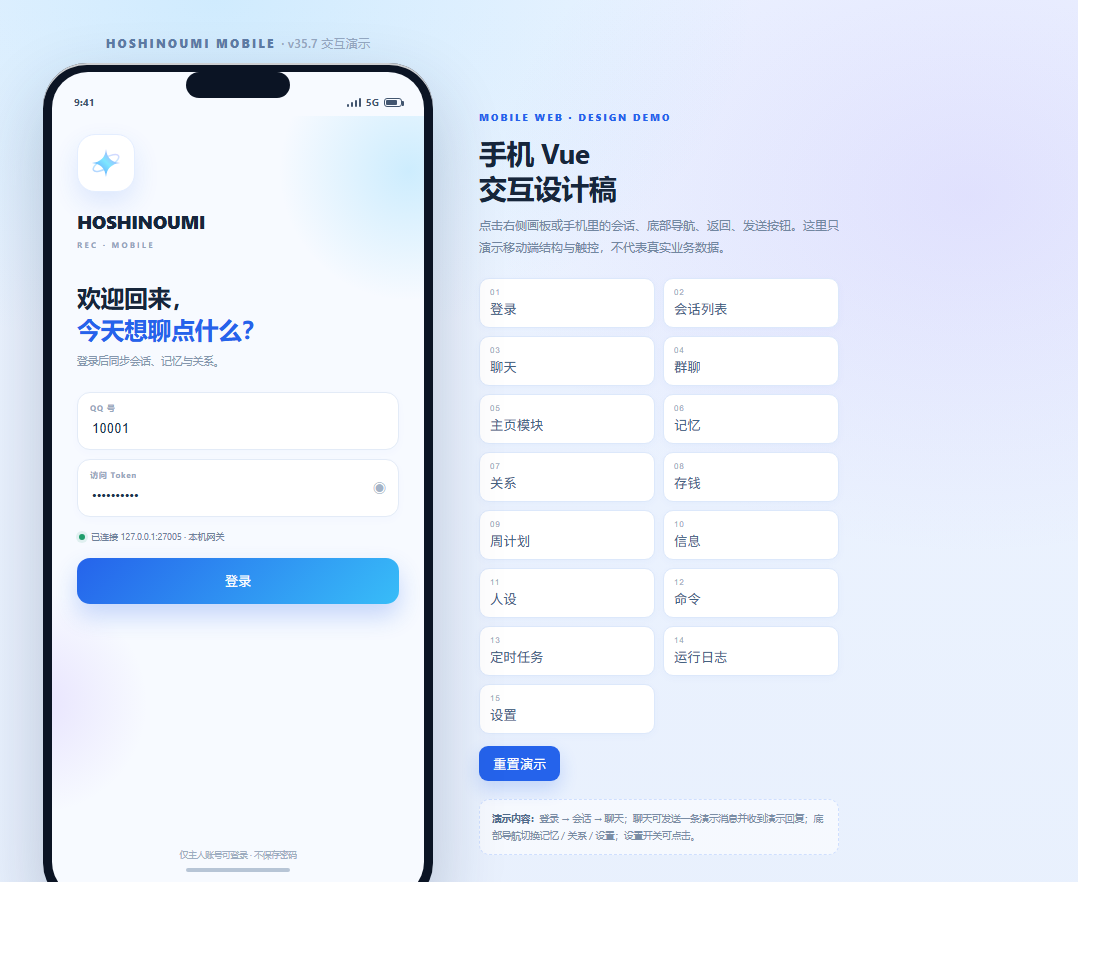
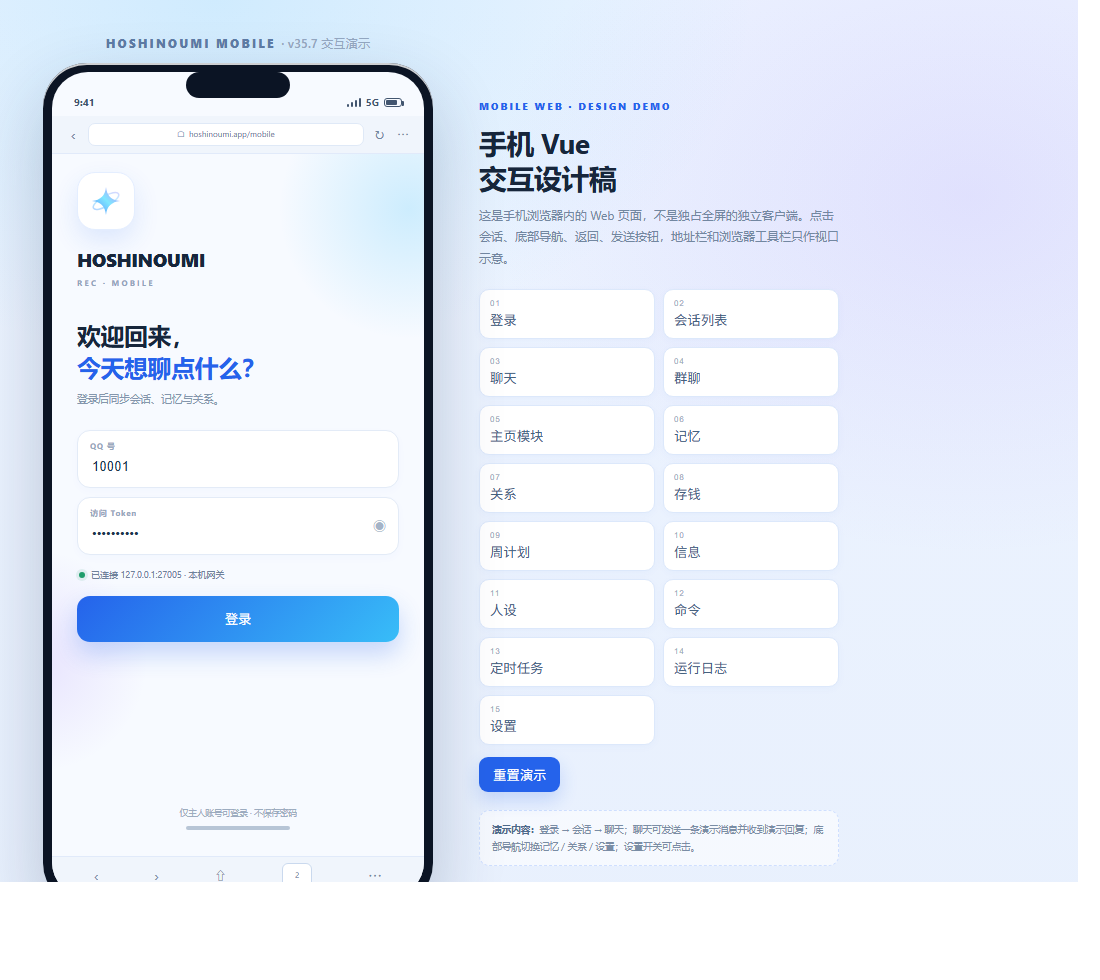
docs(v35.7): 手机演示改为浏览器视口，不占全屏

diff --git a/docs/design/v35/mobile/hoshinoumi-mobile-v35.7-demo.html b/docs/design/v35/mobile/hoshinoumi-mobile-v35.7-demo.html
@@ -27,7 +27,7 @@ body{margin:0;min-height:100vh;background:radial-gradient(900px 600px at 20% 0%,
 .demo-caption{font-size:9px;color:#9aabc0;margin-top:10px;letter-spacing:.02em}
 .screen-body.d-view{display:flex;flex-direction:column;height:100%;min-height:0}
 .d-view>.login{flex:1}
-.toast{position:absolute;left:50%;bottom:90px;transform:translateX(-50%) translateY(8px);background:rgba(15,30,52,.9);color:#fff;border-radius:9px;padding:8px 12px;font-size:9px;opacity:0;transition:.2s;pointer-events:none;z-index:20;white-space:nowrap}
+.toast{position:absolute;left:50%;bottom:108px;transform:translateX(-50%) translateY(8px);background:rgba(15,30,52,.9);color:#fff;border-radius:9px;padding:8px 12px;font-size:9px;opacity:0;transition:.2s;pointer-events:none;z-index:20;white-space:nowrap}
 .toast.on{opacity:1;transform:translateX(-50%) translateY(0)}
 .hide{display:none!important}
 @media(max-width:860px){.demo-page{grid-template-columns:1fr;justify-items:center}.demo-side{text-align:center}.demo-side p,.demo-note{margin-left:auto;margin-right:auto}.demo-screen-list{justify-content:center}.demo-stage{max-width:390px}}
@@ -73,7 +73,9 @@ body{margin:0;min-height:100vh;background:radial-gradient(900px 600px at 20% 0%,
     <div class="demo-title">HOSHINOUMI MOBILE <span>· v35.7 交互演示</span></div>
     <div class="phone"><div class="island"></div><div class="screen" id="app">
       <div class="statusbar"><span>9:41</span><div class="right"><span class="sig"><i></i><i></i><i></i><i></i></span><span>5G</span><div class="battery"></div></div></div>
+      <div class="browser-top"><span class="b-back" onclick="toast('浏览器返回演示')">‹</span><span class="b-url">hoshinoumi.app/mobile</span><span class="b-icon" onclick="toast('刷新演示')">↻</span><span class="b-icon" onclick="toast('浏览器菜单演示')">⋯</span></div>
       <div class="screen-body d-view" id="view"></div>
+      <div class="browser-bottom"><span onclick="toast('浏览器后退演示')">‹</span><span onclick="toast('浏览器前进演示')">›</span><span class="b-share" onclick="toast('分享页面演示')">⇧</span><span class="b-tab" onclick="toast('标签页演示')">2</span><span onclick="toast('浏览器菜单演示')">⋯</span></div>
       <div class="toast" id="toast"></div>
     </div></div>
     <div class="demo-caption">390 × 844 · 设计演示，非真实数据</div>
@@ -81,8 +83,8 @@ body{margin:0;min-height:100vh;background:radial-gradient(900px 600px at 20% 0%,
 
   <aside class="demo-side">
     <div class="kicker">MOBILE WEB · DESIGN DEMO</div>
-    <h1>手机 Vue<br>交互设计稿</h1>
-    <p>点击右侧画板或手机里的会话、底部导航、返回、发送按钮。这里只演示移动端结构与触控，不代表真实业务数据。</p>
+    <h1>手机浏览器<br>交互设计稿</h1>
+    <p>这是手机浏览器内的 Web 页面，不是独占全屏的独立客户端。点击会话、底部导航、返回、发送按钮，地址栏和浏览器工具栏只作视口示意。</p>
     <div class="demo-screen-list">
       <button onclick="go('login')"><span>01</span>登录</button>
       <button onclick="go('chats')"><span>02</span>会话列表</button>

diff --git a/docs/design/v35/mobile/mobile.css b/docs/design/v35/mobile/mobile.css
@@ -164,3 +164,13 @@ h1{font-size:30px;line-height:1.2;margin:0 0 9px;letter-spacing:-.02em}
 .version{text-align:center;color:#a5b3c4;font-size:8px;margin-top:14px}
 .note{max-width:1320px;margin:30px auto 0;padding:14px 18px;border:1px dashed #cfdfff;background:rgba(255,255,255,.55);border-radius:12px;color:#7188a3;font-size:10px;line-height:1.8}
 @media (max-width:1300px){body{min-width:0}.board{grid-template-columns:repeat(2,390px)}}
+
+/* browser viewport chrome */
+.browser-top{height:38px;flex:none;display:flex;align-items:center;gap:6px;padding:0 12px;background:#f0f5fc;border-bottom:1px solid #e1eafa}
+.browser-top .b-back{width:18px;text-align:center;color:#7086a1;font-size:15px;line-height:1}
+.browser-top .b-url{flex:1;height:23px;border-radius:7px;background:#fff;border:1px solid #dfe9f7;display:flex;align-items:center;justify-content:center;gap:4px;color:#6d829c;font-size:8px;letter-spacing:.01em}
+.browser-top .b-url:before{content:"⌂";font-size:8px;color:#8da3bc}
+.browser-top .b-icon{width:18px;text-align:center;color:#7086a1;font-size:12px;line-height:1}
+.browser-bottom{height:42px;flex:none;display:flex;align-items:center;justify-content:space-around;background:#f0f5fc;border-top:1px solid #e1eafa;color:#7086a1;font-size:14px;padding:0 14px 3px}
+.browser-bottom .b-tab{display:flex;align-items:center;justify-content:center;width:30px;height:26px;border:1px solid #cad9ee;border-radius:6px;font-size:8px;color:#6d829c;background:#fff}
+.browser-bottom .b-share{font-size:12px}

diff --git a/docs/design/v35/mobile/hoshinoumi-mobile-v35.7.html b/docs/design/v35/mobile/hoshinoumi-mobile-v35.7.html
@@ -193,5 +193,19 @@
 
   <div class="note"><b>设计边界</b>：本页只确认移动端布局、尺寸、安全区与交互层级；所有内容来自 Vue 页面，不在设计稿里另写业务。会话、记忆、关系均为设计示例，最终以 `/api/*` 返回为准；非主人不展示私密数据和金额。</div>
 </div>
+<script id="inject-browser-chrome">
+document.querySelectorAll('.phone .screen').forEach(screen => {
+  const status = screen.querySelector('.statusbar')
+  if (!status) return
+  const top = document.createElement('div')
+  top.className = 'browser-top'
+  top.innerHTML = '<span class="b-back">‹</span><span class="b-url">hoshinoumi.app/mobile</span><span class="b-icon">↻</span><span class="b-icon">⋯</span>'
+  status.insertAdjacentElement('afterend', top)
+  const bottom = document.createElement('div')
+  bottom.className = 'browser-bottom'
+  bottom.innerHTML = '<span>‹</span><span>›</span><span class="b-share">⇧</span><span class="b-tab">2</span><span>⋯</span>'
+  screen.appendChild(bottom)
+})
+</script>
 </body>
 </html>

diff --git a/docs/design/v35/mobile/README.md b/docs/design/v35/mobile/README.md
@@ -13,7 +13,7 @@ hoshinoumi-mobile-v35.7.png         六屏渲染图
 ## 画板
 
 ```text
-390 × 844（iPhone 14 基准）
+390 × 844 内为浏览器视口；外侧地址栏/工具栏只做示意
 六屏：登录 / 会话 / 聊天 / 记忆 / 关系 / 设置
 ```
 
@@ -27,6 +27,18 @@ hoshinoumi-mobile-v35.7.png         六屏渲染图
 | 记忆 | `/memory` | 记忆本 / 事件 / 画像 |
 | 关系 | `/relation` | 档位与最近变化，不显示精确数值 |
 | 设置 | `/settings` | 连接、通知、记忆、关系范围、关于 |
+
+## 浏览器视口规则
+
+这是手机浏览器 Web，不是独立客户端：
+
+```text
+不请求全屏，不隐藏浏览器地址栏/工具栏
+页面高度用 100dvh，兼容地址栏收放
+底部导航在浏览器工具栏上方
+safe-area 仅处理刘海/Home Indicator，不假设独占屏幕
+滚动容器交给浏览器页面，不用 fixed 全屏壳
+```
 
 ## 移动端规则
 
